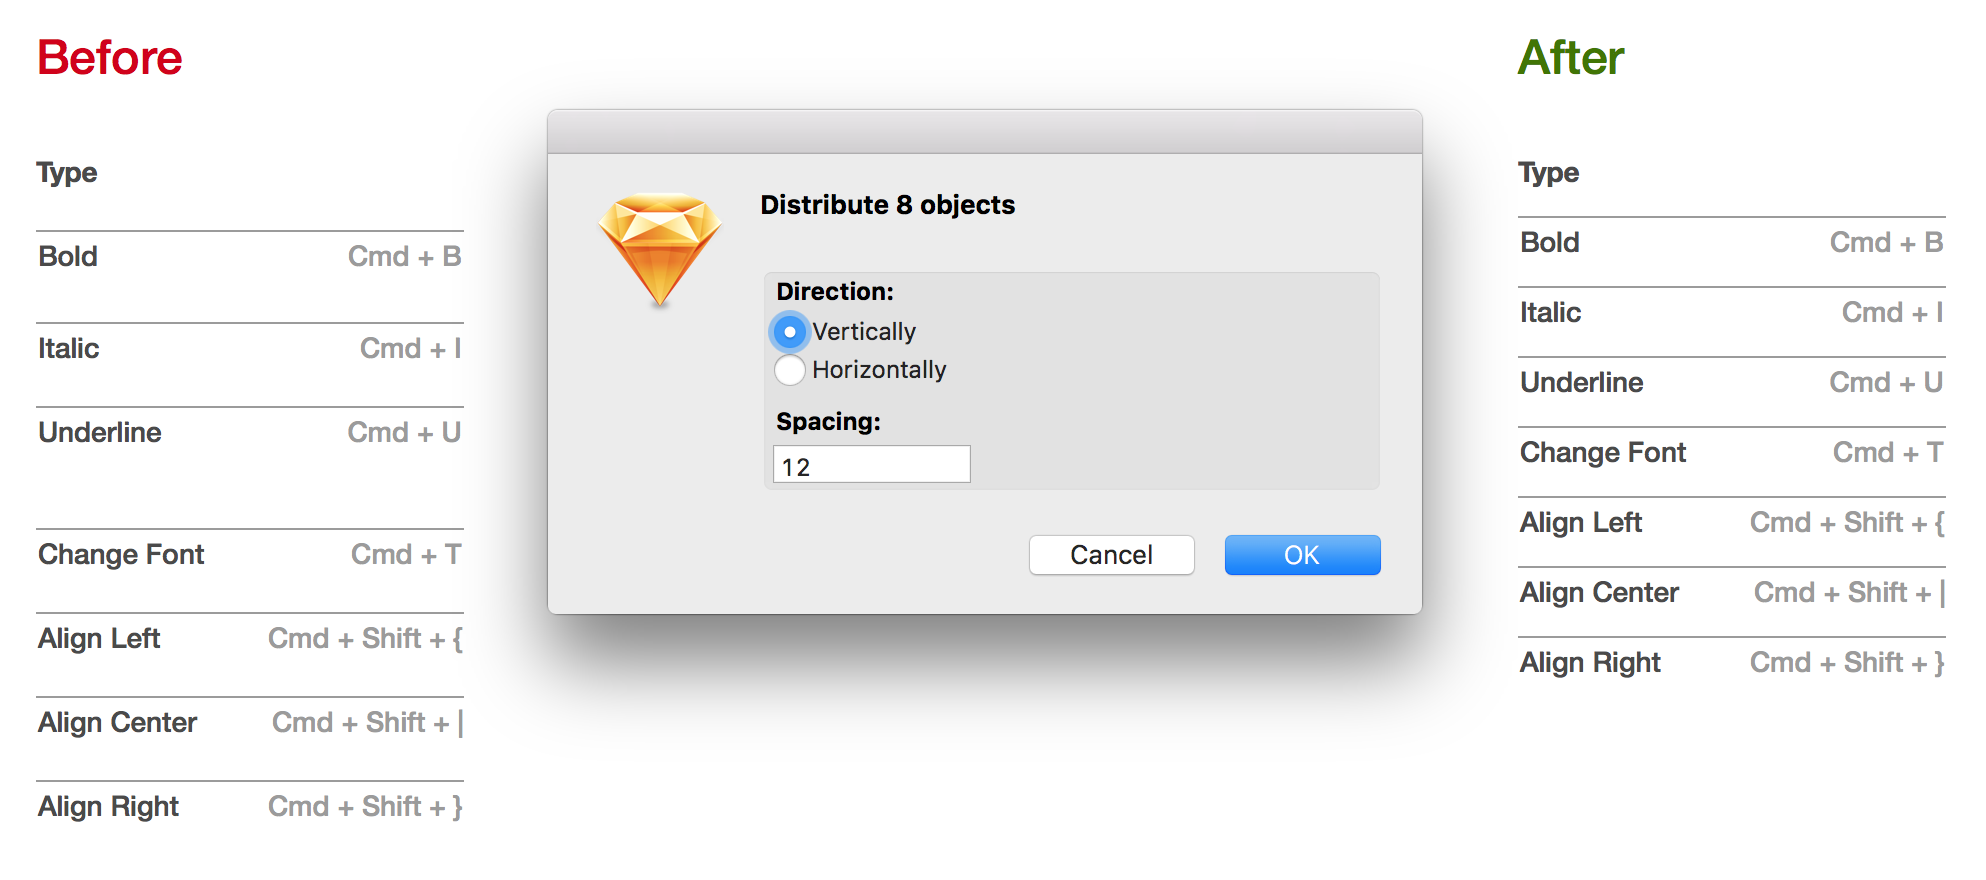
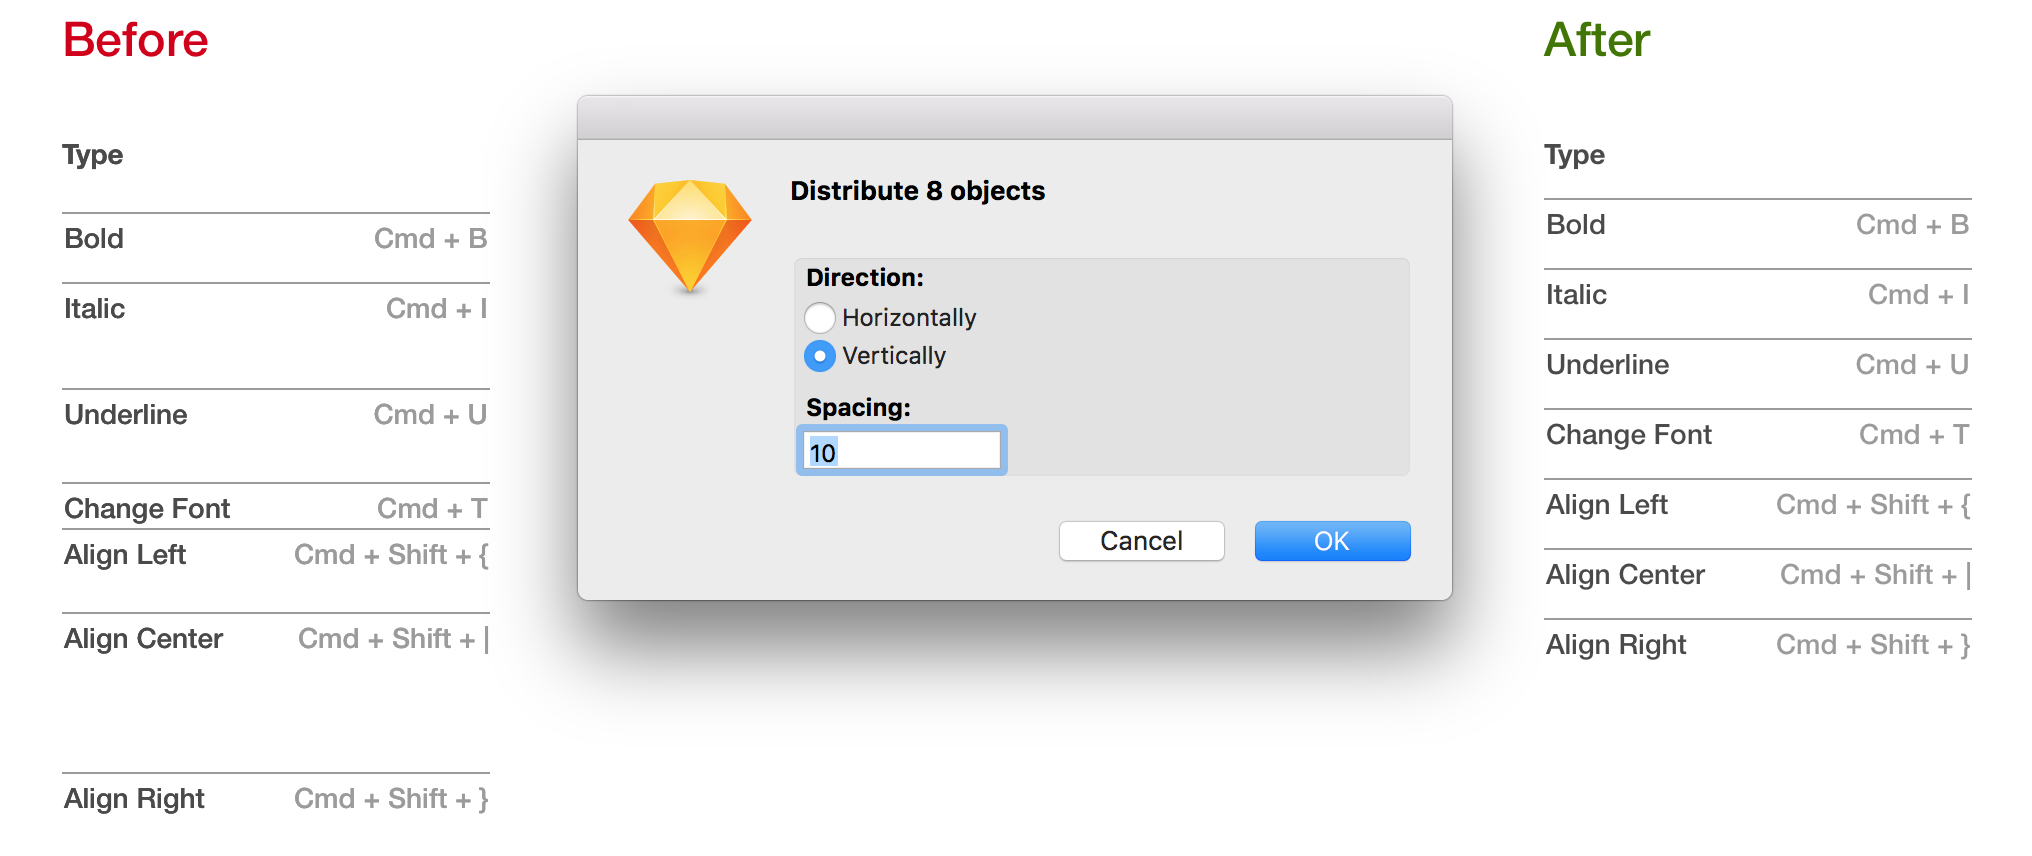
Clean up UI some

diff --git a/Distributor.sketchplugin/Contents/Sketch/script.js b/Distributor.sketchplugin/Contents/Sketch/script.js
@@ -68,8 +68,8 @@ var Distributor = {
             numberOfRows:2
             numberOfColumns:1];
         var cellArray = [dimensionChoices cells];
-        [[cellArray objectAtIndex:0] setTitle:"Vertically"];
-        [[cellArray objectAtIndex:1] setTitle:"Horizontally"];
+        [[cellArray objectAtIndex:0] setTitle:"Horizontally"];
+        [[cellArray objectAtIndex:1] setTitle:"Vertically"];
         [dimensionChoices selectCellAtRow:this.dimension column:0];
         [viewBox addSubview:dimensionChoices];
 
@@ -152,7 +152,7 @@ var onRun = function(context) {
 
             try {
                 [(Distributor.command) setValue:spacingString forKey:"distributorSpacing" onLayer:Distributor.page];
-                [(Distributor.command) setValue:(String(dimension) === "Horizontally" ? 1 : 0) forKey:"distributorDimension" onLayer:Distributor.page];
+                [(Distributor.command) setValue:(String(dimension) === "Horizontally" ? 0 : 1) forKey:"distributorDimension" onLayer:Distributor.page];
             }
             catch (err) {
                 log("Failed saving values, layer commands not supported?");
@@ -164,7 +164,7 @@ var onRun = function(context) {
 var onRunH = function(context) {
     this.distributionHandler(context, "com.betterthantomorrow.sketch.distributor", "distributor-h", function() {
         try {
-            [(Distributor.command) setValue:1 forKey:"distributorDimension" onLayer:Distributor.page];
+            [(Distributor.command) setValue:0 forKey:"distributorDimension" onLayer:Distributor.page];
             onRun(context);
         }
         catch (err) {
@@ -176,7 +176,7 @@ var onRunH = function(context) {
 var onRunV = function(context) {
     this.distributionHandler(context, "com.betterthantomorrow.sketch.distributor", "distributor-v", function() {
         try {
-            [(Distributor.command) setValue:0 forKey:"distributorDimension" onLayer:Distributor.page];
+            [(Distributor.command) setValue:1 forKey:"distributorDimension" onLayer:Distributor.page];
             onRun(context);
         }
         catch (err) {

diff --git a/README.md b/README.md
@@ -12,12 +12,15 @@ I recommend using [Sketch Toolbox](http://sketchtoolbox.com), but you can also d
 
 ## How-to
 
-You select the objects you want to distribute, then ask Distributor to do it. There are two ”modes”:
+You select the objects you want to distribute, then ask Distributor to do it:
 
-1. *Distribute...* (`Shift + Control + D`) brings up a dialog box. You choose direction (vertically or horizontally) and spacing (in pixels).
-1. *Distribute again* (`Shift + Control + A`) applies the last used distribution settings on the selected objects.
+1. **Distribute Horizontally …** (<kbd>CTRL</kbd>+<kbd>OPTION</kbd>+<kbd>H</kbd>), brings up the Distributor dialog box with *horizontal* distribution preselected. You specify spacing (in pixels).
+1. **Distribute Vertically …** <kbd>CTRL</kbd>+<kbd>OPTION</kbd>+<kbd>V</kbd>, same as above for *vertical* distribution.
+1. **Distribute again** (kbd>CTRL</kbd>+<kbd>OPTION</kbd>+<kbd>A</kbd>) applies the last used distribution settings on the selected objects.
+1. **Distribute …** (kbd>CTRL</kbd>+<kbd>OPTION</kbd>+<kbd>D</kbd>), same dialog box as above, but it will remember the last distribution direction. (Mostly here for legacy reasons.)
 
-Note that you can use negative spacing to get overlap. Like so (spacing: -14):
+Note that you can use negative spacing to get overlap:
+
 ![Tabs distributed -14px](tabs.png "Using -14px")
 
 ## Bugs / Comments / Questions / Suggestions
